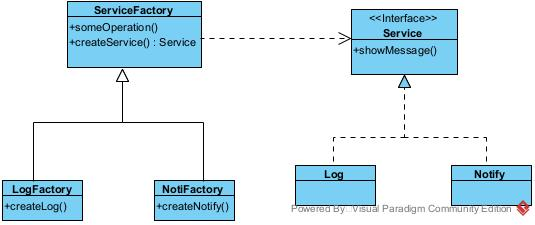
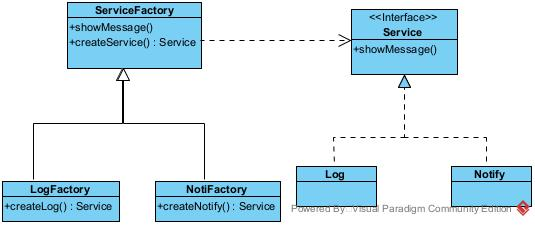
thay doi ten ham someOperator cua ServiceFactory thanh showMessage va them kieu du lieu tra ve cua ham createLog va createNotifybo sung cho so do lop

diff --git a/23_2251172553_NguyenMinhHoang_BaiTap3/FactoryMethod/src/Service/Main.java b/23_2251172553_NguyenMinhHoang_BaiTap3/FactoryMethod/src/Service/Main.java
@@ -6,11 +6,11 @@ public class Main {
 		// TODO Auto-generated method stub
 		// tạo nhật ký
 		ServiceFactory LogCreator = new LogFactory();
-		LogCreator.someOperation();
+		LogCreator.showMessage();
 		
 		// tạo thông báo
 		ServiceFactory NotifyCreator = new NotifyFactory();
-		NotifyCreator.someOperation();
+		NotifyCreator.showMessage();
 	}
 
 }

diff --git a/23_2251172553_NguyenMinhHoang_BaiTap3/FactoryMethod/src/Service/ServiceFactory.java b/23_2251172553_NguyenMinhHoang_BaiTap3/FactoryMethod/src/Service/ServiceFactory.java
@@ -2,7 +2,7 @@ package Service;
 
 public abstract class ServiceFactory {
 	
-	public void someOperation() {
+	public void showMessage() {
 		Service sv = createService();
 		sv.showMessage();
 	}
